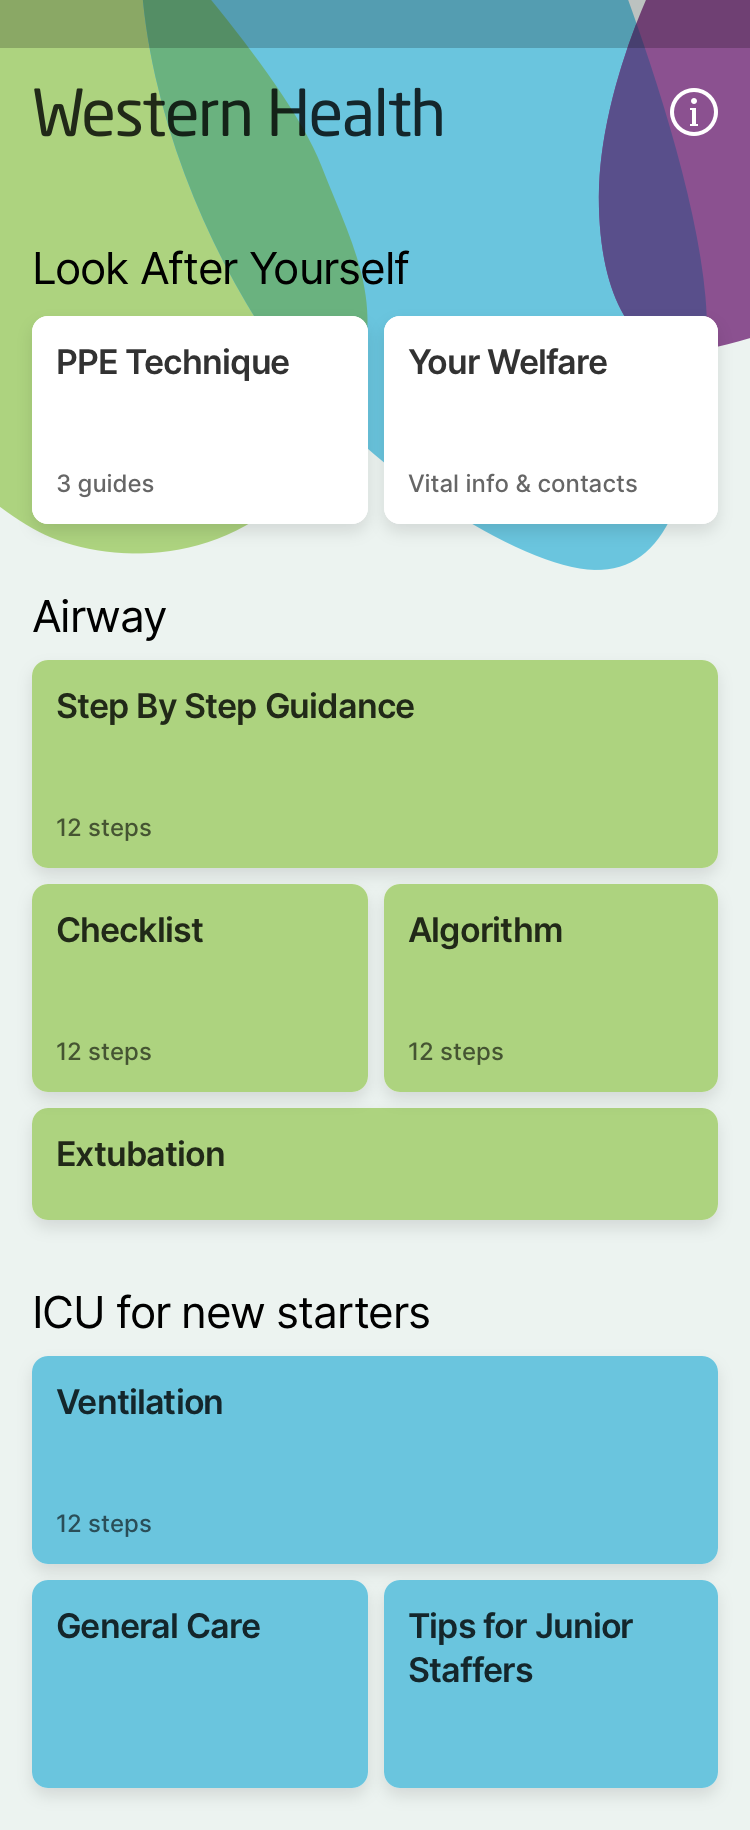
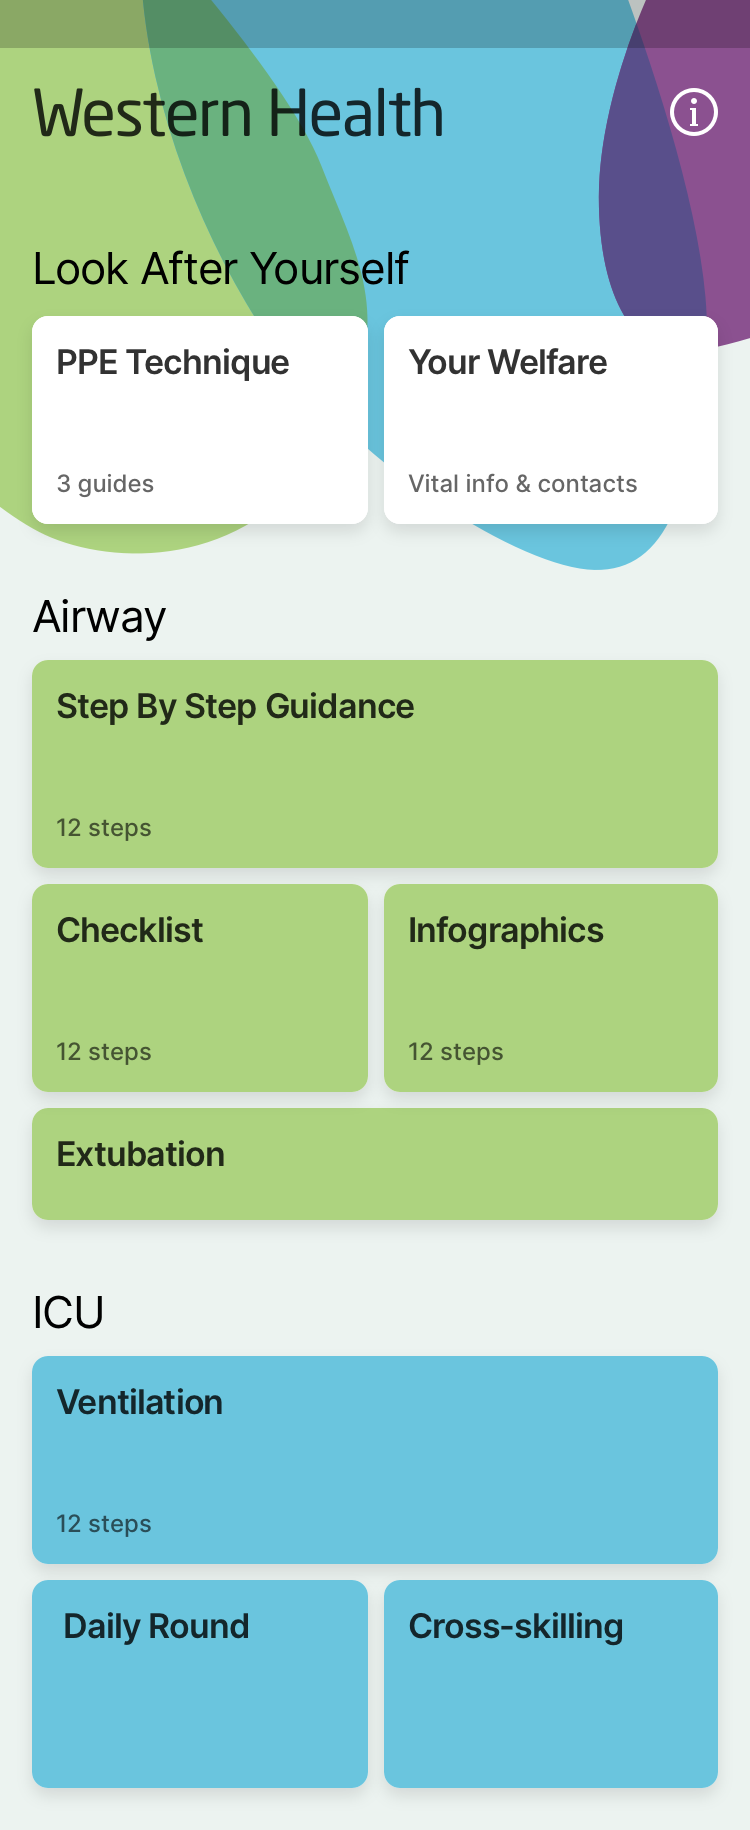
[skip ci] Updates to screenshot and description

diff --git a/README.md b/README.md
@@ -1,13 +1,13 @@
-# Western Health COVID-19 app
+# Western Health COVID-19 app - WHAC19
 
-A tool to safeguard the welfare of Western Health anaesthetists during COVID-19 and provide instant access to the most up-to-date information for time-critical procedures to ensure optimal patient care.  This app will contain information for frontline medical staff on subjects such as:
+The WHAC19 app is a tool to safeguard the welfare of Western Health anaesthetists during COVID-19 and provide instant access to the most up-to-date information for time-critical procedures to ensure optimal patient care.  This app will contain information for frontline medical staff on subjects such as:
 
 - Putting on and taking off PPE (Personal Protective Equipment)
 - Taking care of your own welfare
-- Intubation checklists and steps
+- Intubation and Extubation checklists and steps
 - Ventilation suggested initial actions and adjuncts
 - ICU General Care
-- ICU Tips for junior staffers
+- ICU Tips your daily round and cross skilling
 - Contact details and newsfeeds
 
 Currently under development by a community of volunteers.
